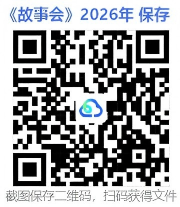
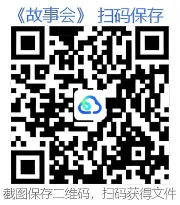
更新

diff --git a/docs/热门杂志/《故事会》正刊 全集下载.md b/docs/热门杂志/《故事会》正刊 全集下载.md
@@ -2,9 +2,9 @@
 
 ## 《故事会》正刊 全集下载
 
-|        扫码保存        |        点击保存       |                  logo                    |
-| :------------------------------------: | :---------------------------------------------------------------------: | --------------------------------------------------------------- |
-| ![img](images/gsh_zk2026/gsh_zk2026.png) | [https://pan.quark.cn/s/730ed8735835](https://pan.quark.cn/s/730ed8735835) | ![img](https://w.readoor.cn/w/app30/img/custom/gushihui/logo.png) |
+|                扫码保存                |                                                            点击保存                                                            | logo                                                            |
+| :------------------------------------: | :-----------------------------------------------------------------------------------------------------------------------------: | --------------------------------------------------------------- |
+| ![img](images/gsh_zk2026/gsh_zk2026.png) | [https://pan.quark.cn/s/ecf7f0075735]([https://pan.quark.cn/s/ecf7f0075735]([/ecf7f0075735](https://pan.quark.cn/s/730ed8735835))) | ![img](https://w.readoor.cn/w/app30/img/custom/gushihui/logo.png) |
 
 ## 更新记录
 
